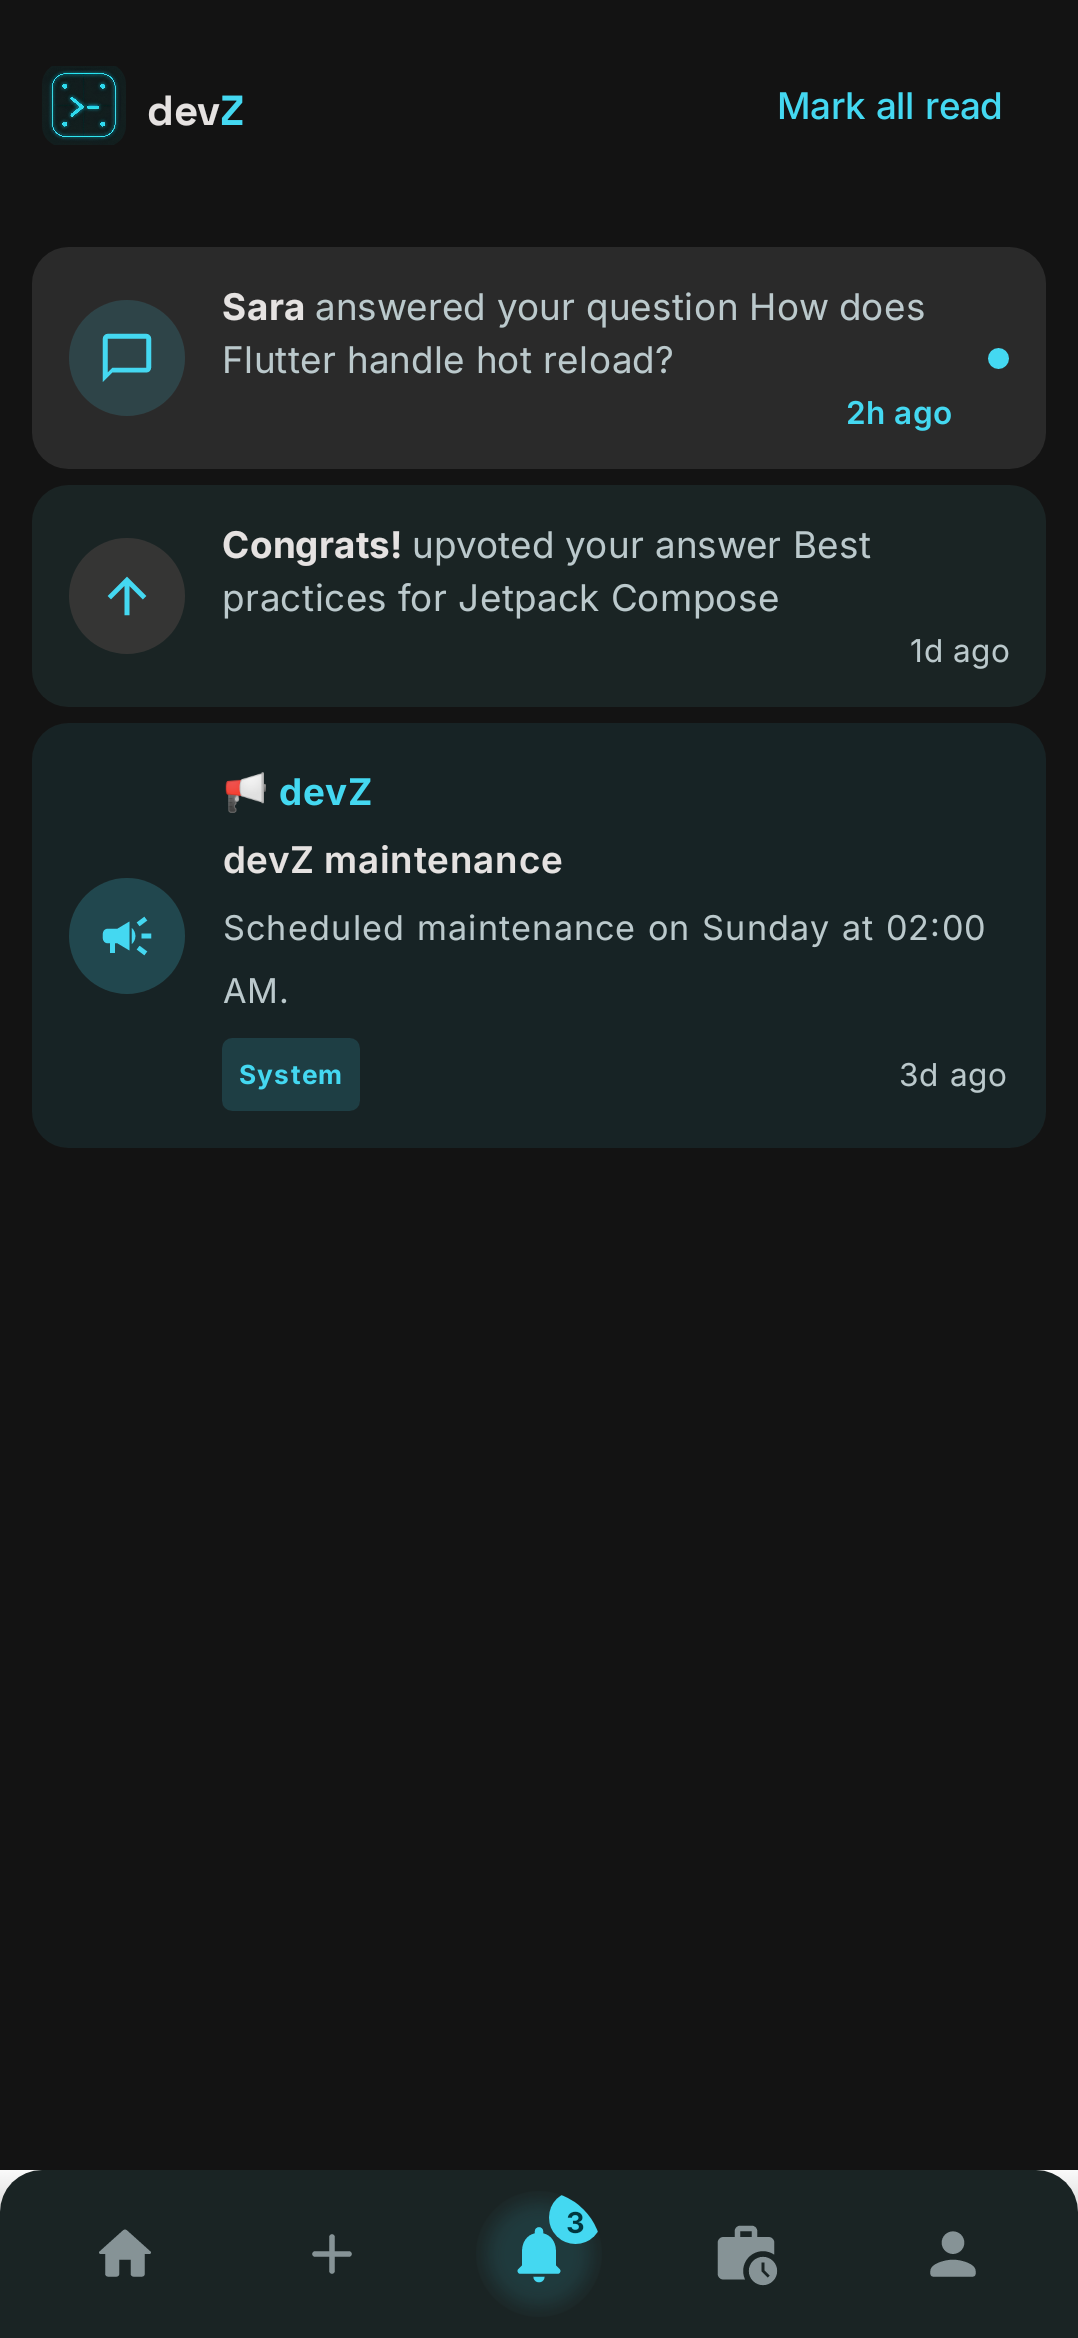
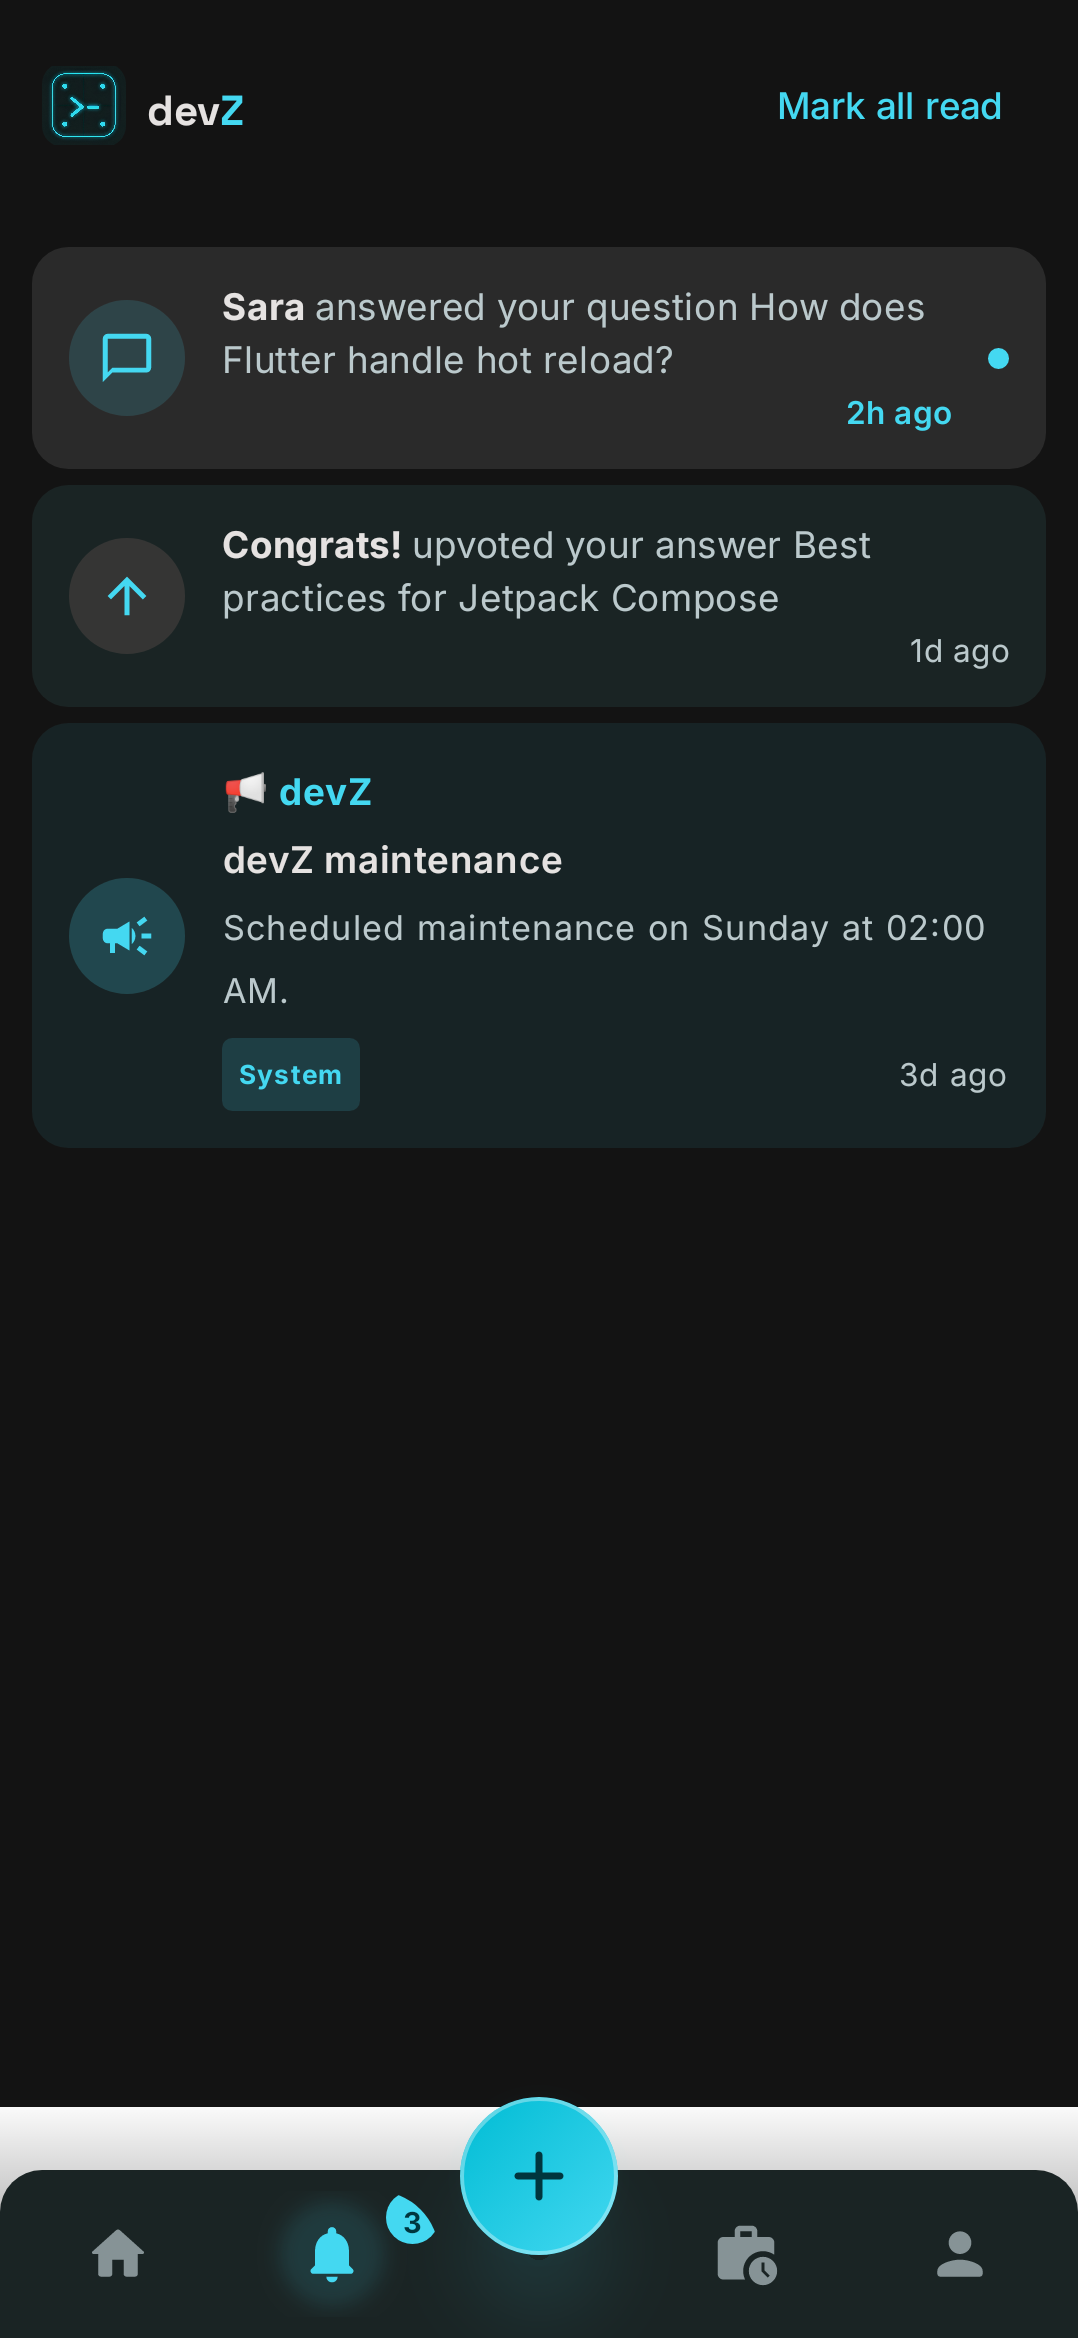
feat(home): center floating Add-question FAB in bottom nav

Changed region(s): [[0.0, 0.8743, 1.0, 0.9991]]

diff --git a/app/src/main/java/com/mohamed/devz/navigation/components/home/HomeScreen.kt b/app/src/main/java/com/mohamed/devz/navigation/components/home/HomeScreen.kt
@@ -3,18 +3,24 @@
 import androidx.activity.compose.BackHandler
 import androidx.compose.animation.animateColorAsState
 import androidx.compose.animation.core.animateDpAsState
+import androidx.compose.animation.core.animateFloatAsState
 import androidx.compose.foundation.background
+import androidx.compose.foundation.border
 import androidx.compose.foundation.clickable
 import androidx.compose.foundation.interaction.MutableInteractionSource
+import androidx.compose.foundation.interaction.collectIsPressedAsState
 import androidx.compose.foundation.layout.Arrangement
 import androidx.compose.foundation.layout.Box
 import androidx.compose.foundation.layout.Row
+import androidx.compose.foundation.layout.Spacer
 import androidx.compose.foundation.layout.fillMaxSize
 import androidx.compose.foundation.layout.fillMaxWidth
 import androidx.compose.foundation.layout.height
 import androidx.compose.foundation.layout.imePadding
+import androidx.compose.foundation.layout.offset
 import androidx.compose.foundation.layout.padding
 import androidx.compose.foundation.layout.size
+import androidx.compose.foundation.layout.width
 import androidx.compose.foundation.shape.CircleShape
 import androidx.compose.foundation.shape.RoundedCornerShape
 import androidx.compose.material.icons.Icons
@@ -38,10 +44,12 @@ import androidx.compose.ui.Alignment
 import androidx.compose.ui.Modifier
 import androidx.compose.ui.draw.clip
 import androidx.compose.ui.draw.drawBehind
+import androidx.compose.ui.draw.shadow
 import androidx.compose.ui.graphics.Brush
 import androidx.compose.ui.graphics.Color
 import androidx.compose.ui.graphics.Paint
 import androidx.compose.ui.graphics.drawscope.drawIntoCanvas
+import androidx.compose.ui.graphics.graphicsLayer
 import androidx.compose.ui.graphics.nativeCanvas
 import androidx.compose.ui.graphics.toArgb
 import androidx.compose.ui.graphics.vector.ImageVector
@@ -277,6 +285,7 @@ fun HomeContent(
                 Box(
                     modifier = Modifier
                         .fillMaxWidth()
+                        .height(88.dp)
                         .drawBehind {
                             drawRect(
                                 brush = Brush.verticalGradient(
@@ -289,24 +298,46 @@ fun HomeContent(
                 ) {
                     Row(
                         modifier = Modifier
+                            .align(Alignment.BottomCenter)
                             .fillMaxWidth()
                             .clip(RoundedCornerShape(topStart = 16.dp, topEnd = 16.dp))
                             .background(MaterialTheme.colorScheme.surfaceContainer)
                             .height(64.dp)
                             .imePadding()
-                            .padding(horizontal = 8.dp),
-                        horizontalArrangement = Arrangement.SpaceAround,
+                            .padding(horizontal = 4.dp),
+                        horizontalArrangement = Arrangement.Center,
                         verticalAlignment = Alignment.CenterVertically
                     ) {
-                        navigationItems.forEachIndexed { index, item ->
+                        listOf(0, 2).forEach { index ->
+                            val item = navigationItems[index]
                             NavIconButton(
                                 icon = item.icon,
                                 isSelected = index == selectedIndex,
                                 onClick = item.onClick,
                                 badgeCount = if (index == 2) unreadCount else 0,
+                                modifier = Modifier.weight(1f),
+                            )
+                        }
+
+                        Spacer(modifier = Modifier.width(76.dp))
+
+                        listOf(3, 4).forEach { index ->
+                            val item = navigationItems[index]
+                            NavIconButton(
+                                icon = item.icon,
+                                isSelected = index == selectedIndex,
+                                onClick = item.onClick,
+                                modifier = Modifier.weight(1f),
                             )
                         }
                     }
+
+                    AddQuestionFab(
+                        onClick = onAddQuestion,
+                        modifier = Modifier
+                            .align(Alignment.TopCenter)
+                            .offset(y = (-4).dp),
+                    )
                 }
             }
         } else {
@@ -314,7 +345,7 @@ fun HomeContent(
         },
         modifier = modifier
     ) { innerPadding ->
-        navigationItems[selectedIndex]
+        navigationItems.first { it.index == selectedIndex }
             .content?.let { content ->
                 content(
                     Modifier
@@ -329,9 +360,9 @@ fun HomeContent(
 private fun NavIconButton(
     icon: ImageVector,
     isSelected: Boolean,
-    isAccent: Boolean = false,
     badgeCount: Int = 0,
     onClick: () -> Unit,
+    modifier: Modifier = Modifier,
 ) {
     val tint by animateColorAsState(
         targetValue = when {
@@ -341,14 +372,14 @@ private fun NavIconButton(
         label = "navIconTint",
     )
     val iconSize by animateDpAsState(
-        targetValue = if (isAccent && isSelected) 30.dp else 26.dp,
+        targetValue = 26.dp,
         label = "navIconSize",
     )
     val glowColor = MaterialTheme.colorScheme.primary.copy(alpha = 0.12f).toArgb()
 
     Box(
         contentAlignment = Alignment.Center,
-        modifier = Modifier
+        modifier = modifier
             .size(48.dp)
             .clip(RoundedCornerShape(50))
             .drawBehind {
@@ -393,6 +424,52 @@ private fun NavIconButton(
                 )
             }
         }
+    }
+}
+
+@Composable
+private fun AddQuestionFab(
+    onClick: () -> Unit,
+    modifier: Modifier = Modifier,
+) {
+    val interactionSource = remember { MutableInteractionSource() }
+    val isPressed by interactionSource.collectIsPressedAsState()
+    val scale by animateFloatAsState(
+        targetValue = if (isPressed) 0.9f else 1f,
+        label = "addFabScale",
+    )
+    val glowColor = MaterialTheme.colorScheme.primary.copy(alpha = 0.45f)
+
+    Box(
+        contentAlignment = Alignment.Center,
+        modifier = modifier
+            .size(60.dp)
+            .graphicsLayer {
+                scaleX = scale
+                scaleY = scale
+            }
+            .shadow(
+                elevation = 16.dp,
+                shape = CircleShape,
+                clip = false,
+                ambientColor = glowColor,
+                spotColor = glowColor,
+            )
+            .clip(CircleShape)
+            .background(Brush.linearGradient(listOf(Color(0xFF00BCD4), Color(0xFF44D8F1))))
+            .border(1.5.dp, Color.White.copy(alpha = 0.35f), CircleShape)
+            .clickable(
+                indication = null,
+                interactionSource = interactionSource,
+                onClick = onClick,
+            ),
+    ) {
+        Icon(
+            imageVector = Icons.Rounded.Add,
+            contentDescription = stringResource(R.string.nav_add),
+            tint = Color(0xFF00363E),
+            modifier = Modifier.size(32.dp),
+        )
     }
 }
 

diff --git a/app/src/test/java/com/mohamed/devz/gallery/ScreenshotGalleryTest.kt b/app/src/test/java/com/mohamed/devz/gallery/ScreenshotGalleryTest.kt
@@ -6,15 +6,19 @@ import androidx.compose.runtime.Composable
 import androidx.compose.runtime.rememberCoroutineScope
 import androidx.compose.ui.test.junit4.createComposeRule
 import androidx.compose.foundation.background
+import androidx.compose.foundation.border
 import androidx.compose.foundation.layout.Arrangement
 import androidx.compose.foundation.layout.Box
 import androidx.compose.foundation.layout.Row
+import androidx.compose.foundation.layout.Spacer
 import androidx.compose.foundation.layout.fillMaxSize
 import androidx.compose.foundation.layout.fillMaxWidth
 import androidx.compose.foundation.layout.height
 import androidx.compose.foundation.layout.imePadding
+import androidx.compose.foundation.layout.offset
 import androidx.compose.foundation.layout.padding
 import androidx.compose.foundation.layout.size
+import androidx.compose.foundation.layout.width
 import androidx.compose.foundation.shape.CircleShape
 import androidx.compose.foundation.shape.RoundedCornerShape
 import androidx.compose.material.icons.Icons
@@ -31,6 +35,7 @@ import androidx.compose.ui.Alignment
 import androidx.compose.ui.Modifier
 import androidx.compose.ui.draw.clip
 import androidx.compose.ui.draw.drawBehind
+import androidx.compose.ui.draw.shadow
 import androidx.compose.ui.geometry.Offset
 import androidx.compose.ui.graphics.Brush
 import androidx.compose.ui.graphics.Color
@@ -192,6 +197,7 @@ class ScreenshotGalleryTest {
         Box(
             modifier = Modifier
                 .fillMaxWidth()
+                .height(88.dp)
                 .drawBehind {
                     drawRect(
                         brush = Brush.verticalGradient(
@@ -204,33 +210,50 @@ class ScreenshotGalleryTest {
         ) {
             Row(
                 modifier = Modifier
+                    .align(Alignment.BottomCenter)
                     .fillMaxWidth()
                     .clip(RoundedCornerShape(topStart = 16.dp, topEnd = 16.dp))
                     .background(MaterialTheme.colorScheme.surfaceContainer)
                     .height(64.dp)
                     .imePadding()
-                    .padding(horizontal = 8.dp),
-                horizontalArrangement = Arrangement.SpaceAround,
+                    .padding(horizontal = 4.dp),
+                horizontalArrangement = Arrangement.Center,
                 verticalAlignment = Alignment.CenterVertically,
             ) {
-                icons.forEachIndexed { index, icon ->
+                listOf(0, 2).forEach { index ->
                     TestNavIcon(
-                        icon = icon,
+                        icon = icons[index],
                         isSelected = index == selectedIndex,
                         badgeCount = if (index == 2) unreadCount else 0,
+                        modifier = Modifier.weight(1f),
+                    )
+                }
+                Spacer(modifier = Modifier.width(76.dp))
+                listOf(3, 4).forEach { index ->
+                    TestNavIcon(
+                        icon = icons[index],
+                        isSelected = index == selectedIndex,
+                        badgeCount = 0,
+                        modifier = Modifier.weight(1f),
                     )
                 }
             }
+
+            TestAddFab(
+                modifier = Modifier
+                    .align(Alignment.TopCenter)
+                    .offset(y = (-4).dp),
+            )
         }
     }
 
     @Composable
-    private fun TestNavIcon(icon: ImageVector, isSelected: Boolean, badgeCount: Int) {
+    private fun TestNavIcon(icon: ImageVector, isSelected: Boolean, badgeCount: Int, modifier: Modifier = Modifier) {
         val tint = if (isSelected) MaterialTheme.colorScheme.primary else MaterialTheme.colorScheme.outline
         val glowColor = MaterialTheme.colorScheme.primary.copy(alpha = 0.12f).toArgb()
         Box(
             contentAlignment = Alignment.Center,
-            modifier = Modifier
+            modifier = modifier
                 .size(48.dp)
                 .clip(RoundedCornerShape(50))
                 .drawBehind {
@@ -269,6 +292,27 @@ class ScreenshotGalleryTest {
                     )
                 }
             }
+        }
+    }
+
+    @Composable
+    private fun TestAddFab(modifier: Modifier = Modifier) {
+        val glowColor = MaterialTheme.colorScheme.primary.copy(alpha = 0.45f)
+        Box(
+            contentAlignment = Alignment.Center,
+            modifier = modifier
+                .size(60.dp)
+                .shadow(16.dp, CircleShape, clip = false, ambientColor = glowColor, spotColor = glowColor)
+                .clip(CircleShape)
+                .background(Brush.linearGradient(listOf(Color(0xFF00BCD4), Color(0xFF44D8F1))))
+                .border(1.5.dp, Color.White.copy(alpha = 0.35f), CircleShape),
+        ) {
+            Icon(
+                imageVector = Icons.Rounded.Add,
+                contentDescription = null,
+                tint = Color(0xFF00363E),
+                modifier = Modifier.size(32.dp),
+            )
         }
     }
 

diff --git a/docs/screenshots/README.md b/docs/screenshots/README.md
@@ -26,11 +26,12 @@ source files.
 
 ### The bottom navigation bar
 
-The three in-app tab screens (Feed, View profile, Notifications) are captured
-with the home shell's **bottom navigation bar** drawn underneath them. The
-production bar lives inside the Hilt-bound `HomeContent`, so the test uses a
-small visual replica (same icons, colors, height and selected-tab state) rather
-than importing it.
+The in-app tab screens captured with the bar (Feed, View profile,
+Notifications, and the admin profile) are drawn with the home shell's **bottom
+navigation bar** underneath them, including the raised cyan **Add** button at
+center. The production bar lives inside the Hilt-bound `HomeContent`, so the test
+uses a small visual replica (same icons, colors, height, selected-tab state and
+center FAB) rather than importing it.
 
 ### Screens that are not captured
 
